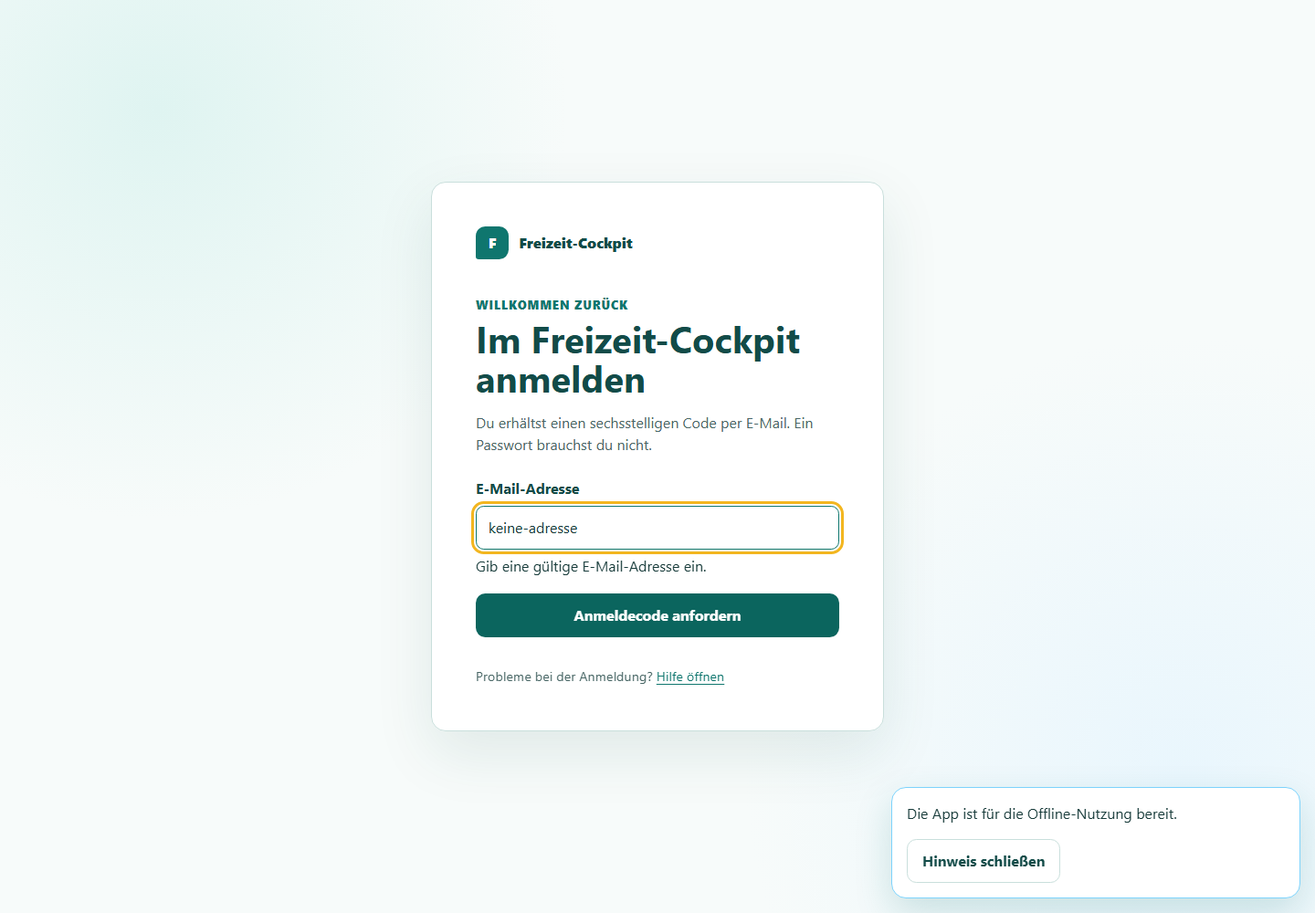
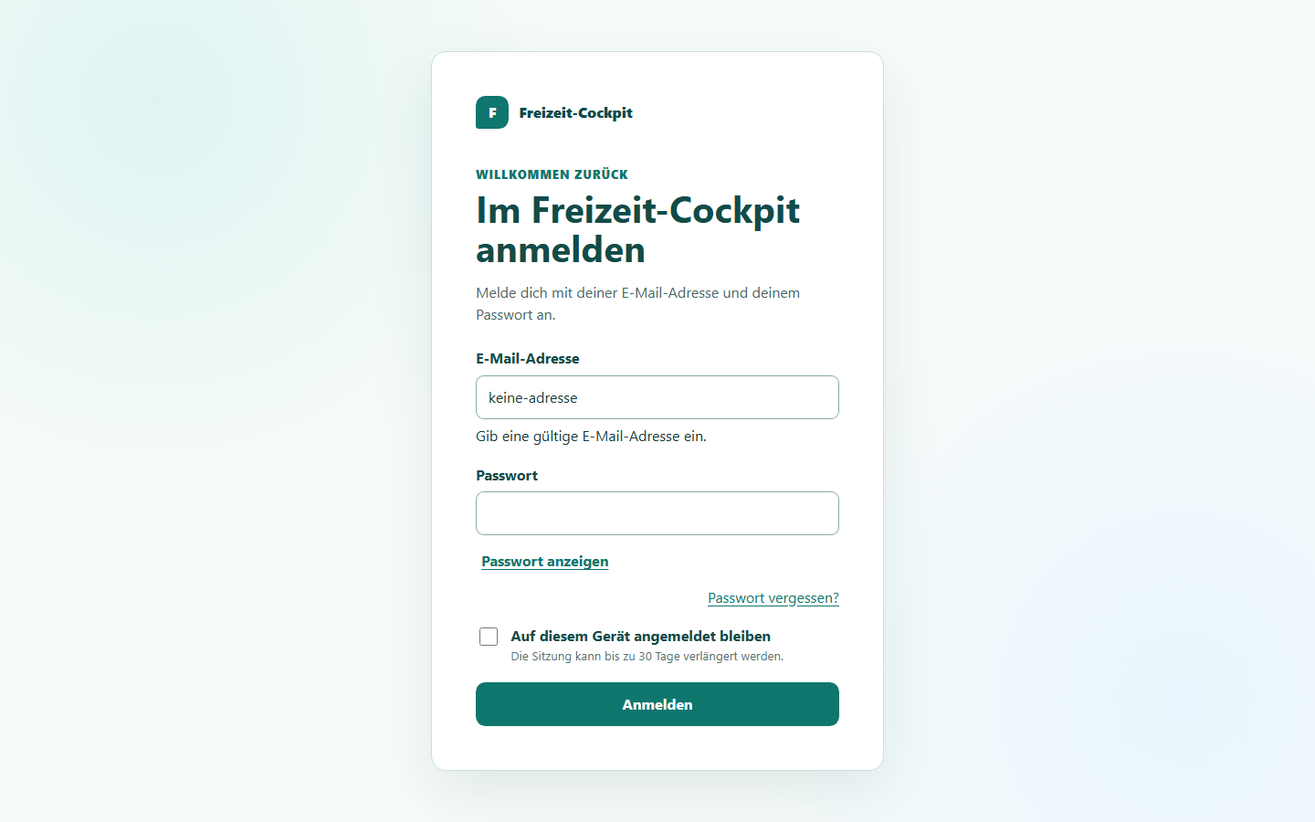
docs(progress): record ux03-ux05 completion and full verification evidence
Mark UX03, UX04 and UX05 verified in the slice table with their commits
and document the component split, the fixed defects (401 handling, CSS
overflow, three pre-existing browser-test races) and the full gate plus
Google-Chrome-only visual inspection evidence. Refresh the four help
screenshots to match the completed navigation and administration surface.

diff --git a/PROGRESS.md b/PROGRESS.md
@@ -11,37 +11,37 @@ This file is the resumable evidence ledger. Commands are run from the repository
 
 ## Slices
 
-| Slice                                 | Status      | Acceptance criteria                                                                             | Red evidence                                                                         | Green/verify evidence                                     | Docs                                      | Commit    | Blocker / next smallest step         |
-| ------------------------------------- | ----------- | ----------------------------------------------------------------------------------------------- | ------------------------------------------------------------------------------------ | --------------------------------------------------------- | ----------------------------------------- | --------- | ------------------------------------ |
-| F01 foundation                        | verified    | Pinned .NET/React/Aspire skeleton; bootstrap, build and test paths work                         | Foundation script failed on 41 absent paths                                          | Full verify passed in 63.3 s                              | deployment plan, AGENTS, contexts, skills | `f9f4022` | Start I01 with red HTTP test         |
-| I01 passwordless identity             | verified    | Hashed six-digit code, expiry, attempts/rates, generic response, sessions and revoke            | Missing-CSRF API test returned HTTP 500                                              | Full verify passed in 87.0 s                              | Identity context, login/session help      | `84d5da1` | Start I02 invitation tests           |
-| I02 invitations and account lifecycle | verified    | Invite rotation/revoke; memberships; reauth; verified email; 30-day account/tenant deletion     | Missing lifecycle contracts caused compile failure                                   | Full verify passed in 86.9 s plus Aspire smoke            | Identity context, account/role help       | `98fb62d` | Start I03 authorization              |
-| I03 tenant authorization              | verified    | Role matrix, last owner, suspension, IDOR protection and RLS isolation                          | Missing authorization contracts caused compile failure                               | Full verify 382.3 s; PostgreSQL/Aspire/browser smoke      | auth/RLS docs and role help               | `dc0c859` | Start C01/T01/S01 wave               |
-| C01 camps                             | verified    | Camp lifecycle, slugs, archive read-only/reactivate, dashboard                                  | Static dashboard examples masked the live Camp state                                 | 17 Camps, 29 API, 25 React + browser green                | Camps context, organization/camp help     | pending   | Start next incomplete product slice  |
-| C02 schedule                          | verified    | Agenda/calendar CRUD, overlap, timezone/DST, all-day, ETag, atomic links                        | Missing minimized responsibility directory and UI                                    | 30 Identity, 28 API, 21 React + RLS/browser green         | Camps/Identity contexts, schedule help    | pending   | Start next incomplete product slice  |
-| T01 ingredients and recipes           | verified    | Normalize/merge, decimal units, recipe versions and private attachments                         | Recipe files were unreachable from their owner                                       | 14 Catering, 28 Files, 29 React + full gate/browser       | Catering/Files contexts, recipe help      | pending   | Start T02 meal and snapshot UI       |
-| T02 meals and snapshots               | verified    | Portion scaling, stable/refreshable snapshots and atomic schedule workflow                      | Reviewed shopping transfer was unreachable                                           | 14 Catering, 32 React + full gate/browser                 | Catering/Logistics contexts, recipe help  | pending   | Start live Logistics UI              |
-| L01 material                          | verified    | Camp/schedule material, responsibilities, procurement status and private attachments            | Material details exposed no reachable attachment area                                | 16 Logistics, 28 Files, 37 React + full gate/browser      | Logistics/Files contexts, material help   | pending   | Start next incomplete product slice  |
-| L02 shopping                          | verified    | Named lists, unified sourced items, editable transfer, concurrent check-off and polling         | Material summaries had no reviewed transfer action                                   | 19 Logistics, 35 React + full gate/browser                | Logistics context, shopping help          | pending   | Start complete L01 material UI       |
-| S01 devotions and Bible               | verified    | Full lifecycle, four translations, resilient attributed snapshots and private attachments       | Andacht detail exposed no private file region                                        | 24 Spiritual, 28 Files, 44 React + full gate/browser      | Spiritual/Files contexts, devotion help   | pending   | Start next incomplete product slice  |
-| K01 notebook                          | verified    | Shared notebook, safe Markdown, typed links, lifecycle and private files                        | Restore success status was absent                                                    | 13 Knowledge, 28 Files, 48 React + full gate/browser      | Knowledge/Files/Activity contexts, help   | pending   | Start F02 attachment hardening       |
-| F02 attachments                       | verified    | Magic-byte/MIME/extension checks, quotas, private authorized image/PDF delivery                 | Meal and schedule files were unreachable from owners                                 | 28 Files, 50 React + full gate/mobile browsers            | Files/Camps/Catering contexts, help       | pending   | Complete A01 activity/trash          |
-| A01 activity/trash                    | verified    | Metadata-only feed, soft delete/restore and deterministic 30-day purge                          | Restore caches stale; feed omitted actor/type in UI                                  | 13 Activity, 32 API, 58 React + full gate/browser         | Activity/domain contexts, trash help      | pending   | Complete A02 search/export/print     |
-| A02 search/export/print               | verified    | Tenant-safe filtered search, CSV formula protection, German print views                         | Metadata filters and scoped print views absent in UI                                 | 62 React + PostgreSQL RLS + full gate/mobile browser      | Activity context and search/export help   | pending   | Complete P01 PWA/offline             |
-| P01 PWA/offline                       | verified    | Install/update; read-only four-area snapshot; purge on logout/org switch                        | Cold start lacked scoped complete offline projections                                | 68 React + full gate/PWA/mobile browser green             | PWA architecture and offline help         | `c594fe5` | Complete O01 operations              |
-| O01 operations                        | verified    | Migrator lock/order, cleanup, telemetry, health and correlation without sensitive logs          | Liveness ran readiness; no correlation/jobs DB role                                  | 35 API + PostgreSQL jobs/RLS + full gate green            | operations architecture and cleanup docs  | `3caa261` | Complete Z01 Azure/CI                |
-| Z01 Azure/CI                          | verified    | azd/Bicep/containers/workflows locally validate; no cloud mutation                              | Web image required pwsh and copied broken host links                                 | Bicep/azd/actionlint + 3 UID-1654 images + full gate      | deployment architecture, plan and runbook | `3f07d8b` | Complete V01 verification            |
-| V01 full verification                 | verified    | Format/lint/build/tests, coverage, three browsers/viewports, axe, visual inspection, smoke      | Backend coverage was 59.25% lines / 42.45% branches                                  | Full verify 626.3 s; Aspire/browser/axe/smoke green       | all docs and current help screenshots     | `e953387` | Product verification complete        |
-| I04 password JWT identity             | verified    | Email/password login, asymmetric access/refresh JWTs, rotation, revoke and one-time First Login | Missing password-authentication contracts caused compile failure                     | Full verify 636.6 s; RLS/Aspire/63 browser cases green    | Identity/auth/help                        | pending   | Start I06 transferable invitations   |
-| I05 password recovery                 | verified    | Reset email, password change, reauthentication, exact lockout and global account suspension     | Reset table initially lacked runtime-role grant                                      | Full verify; real Mailpit reset and refresh restart       | Identity/account/help                     | pending   | Add admin mutations with I07         |
-| I06 transferable invitations          | verified    | Bearer invitation links, registration, email confirmation, reservation, revoke and rotation     | Missing registration contracts caused compile failure; new HTTP routes returned 405  | Full verify 694.2 s; RLS/Mailpit/72 browser entries green | Identity/invitation/help                  | pending   | Start I07 SuperAdmin administration  |
-| I07 SuperAdmin administration         | verified    | Owner migration, SuperAdmin/OrgAdmin rights, scoped suspension, admin APIs and German UI        | Last-SuperAdmin and zero-Orgadmin acceptance tests failed before services existed    | Full verify 727.7 s; 65 browser + 9 Chrome smoke          | Identity/auth/RLS/help                    | pending   | Authentication overhaul complete     |
-| I08 invitation setup reliability      | verified    | Organization links are created and accepted with user-bound CSRF and PostgreSQL RLS             | Link creation returned 400; acceptance then returned 500 under PostgreSQL RLS        | 106 React, PostgreSQL RLS and Chrome E2E green            | Identity context                          | pending   | Full gate retry after worker timeout |
-| UX01 shared application shell         | verified    | Dynamic authorized landing, contextual header and direct role-aware administration navigation   | Root still entered seeded Camp; contextual administration links were absent          | 13 targeted React tests, lint and TypeScript strict green | Identity/help                             | `7de0911` | Start UX02 authentication/account    |
-| UX02 authentication and account       | verified    | Shared authentication shell, conditional First Login, safe return route and sectioned account   | First Login stayed visible; return target and account subsection routes were ignored | 110 React tests, lint and TypeScript strict green         | Identity and four help pages              | `19637ba` | Start UX03 administration            |
-| UX03 administration workspace         | in_progress | Persistent platform/organization navigation, focused user details and safe invitation dialogs   | Platform navigation and focused user/invitation interactions were absent             | pending                                                   | Identity/help                             | pending   | Implement administration workspace   |
-| UX04 camp navigation                  | pending     | Grouped desktop navigation, compact mobile navigation and separated planning subareas           | pending                                                                              | pending                                                   | product/help                              | pending   | Complete UX03                        |
-| UX05 visual consolidation             | pending     | Shared tokens, responsive tables/dialogs, route focus and complete accessible Chrome inspection | pending                                                                              | pending                                                   | all affected help                         | pending   | Complete UX04                        |
+| Slice                                 | Status   | Acceptance criteria                                                                             | Red evidence                                                                         | Green/verify evidence                                     | Docs                                      | Commit    | Blocker / next smallest step         |
+| ------------------------------------- | -------- | ----------------------------------------------------------------------------------------------- | ------------------------------------------------------------------------------------ | --------------------------------------------------------- | ----------------------------------------- | --------- | ------------------------------------ |
+| F01 foundation                        | verified | Pinned .NET/React/Aspire skeleton; bootstrap, build and test paths work                         | Foundation script failed on 41 absent paths                                          | Full verify passed in 63.3 s                              | deployment plan, AGENTS, contexts, skills | `f9f4022` | Start I01 with red HTTP test         |
+| I01 passwordless identity             | verified | Hashed six-digit code, expiry, attempts/rates, generic response, sessions and revoke            | Missing-CSRF API test returned HTTP 500                                              | Full verify passed in 87.0 s                              | Identity context, login/session help      | `84d5da1` | Start I02 invitation tests           |
+| I02 invitations and account lifecycle | verified | Invite rotation/revoke; memberships; reauth; verified email; 30-day account/tenant deletion     | Missing lifecycle contracts caused compile failure                                   | Full verify passed in 86.9 s plus Aspire smoke            | Identity context, account/role help       | `98fb62d` | Start I03 authorization              |
+| I03 tenant authorization              | verified | Role matrix, last owner, suspension, IDOR protection and RLS isolation                          | Missing authorization contracts caused compile failure                               | Full verify 382.3 s; PostgreSQL/Aspire/browser smoke      | auth/RLS docs and role help               | `dc0c859` | Start C01/T01/S01 wave               |
+| C01 camps                             | verified | Camp lifecycle, slugs, archive read-only/reactivate, dashboard                                  | Static dashboard examples masked the live Camp state                                 | 17 Camps, 29 API, 25 React + browser green                | Camps context, organization/camp help     | pending   | Start next incomplete product slice  |
+| C02 schedule                          | verified | Agenda/calendar CRUD, overlap, timezone/DST, all-day, ETag, atomic links                        | Missing minimized responsibility directory and UI                                    | 30 Identity, 28 API, 21 React + RLS/browser green         | Camps/Identity contexts, schedule help    | pending   | Start next incomplete product slice  |
+| T01 ingredients and recipes           | verified | Normalize/merge, decimal units, recipe versions and private attachments                         | Recipe files were unreachable from their owner                                       | 14 Catering, 28 Files, 29 React + full gate/browser       | Catering/Files contexts, recipe help      | pending   | Start T02 meal and snapshot UI       |
+| T02 meals and snapshots               | verified | Portion scaling, stable/refreshable snapshots and atomic schedule workflow                      | Reviewed shopping transfer was unreachable                                           | 14 Catering, 32 React + full gate/browser                 | Catering/Logistics contexts, recipe help  | pending   | Start live Logistics UI              |
+| L01 material                          | verified | Camp/schedule material, responsibilities, procurement status and private attachments            | Material details exposed no reachable attachment area                                | 16 Logistics, 28 Files, 37 React + full gate/browser      | Logistics/Files contexts, material help   | pending   | Start next incomplete product slice  |
+| L02 shopping                          | verified | Named lists, unified sourced items, editable transfer, concurrent check-off and polling         | Material summaries had no reviewed transfer action                                   | 19 Logistics, 35 React + full gate/browser                | Logistics context, shopping help          | pending   | Start complete L01 material UI       |
+| S01 devotions and Bible               | verified | Full lifecycle, four translations, resilient attributed snapshots and private attachments       | Andacht detail exposed no private file region                                        | 24 Spiritual, 28 Files, 44 React + full gate/browser      | Spiritual/Files contexts, devotion help   | pending   | Start next incomplete product slice  |
+| K01 notebook                          | verified | Shared notebook, safe Markdown, typed links, lifecycle and private files                        | Restore success status was absent                                                    | 13 Knowledge, 28 Files, 48 React + full gate/browser      | Knowledge/Files/Activity contexts, help   | pending   | Start F02 attachment hardening       |
+| F02 attachments                       | verified | Magic-byte/MIME/extension checks, quotas, private authorized image/PDF delivery                 | Meal and schedule files were unreachable from owners                                 | 28 Files, 50 React + full gate/mobile browsers            | Files/Camps/Catering contexts, help       | pending   | Complete A01 activity/trash          |
+| A01 activity/trash                    | verified | Metadata-only feed, soft delete/restore and deterministic 30-day purge                          | Restore caches stale; feed omitted actor/type in UI                                  | 13 Activity, 32 API, 58 React + full gate/browser         | Activity/domain contexts, trash help      | pending   | Complete A02 search/export/print     |
+| A02 search/export/print               | verified | Tenant-safe filtered search, CSV formula protection, German print views                         | Metadata filters and scoped print views absent in UI                                 | 62 React + PostgreSQL RLS + full gate/mobile browser      | Activity context and search/export help   | pending   | Complete P01 PWA/offline             |
+| P01 PWA/offline                       | verified | Install/update; read-only four-area snapshot; purge on logout/org switch                        | Cold start lacked scoped complete offline projections                                | 68 React + full gate/PWA/mobile browser green             | PWA architecture and offline help         | `c594fe5` | Complete O01 operations              |
+| O01 operations                        | verified | Migrator lock/order, cleanup, telemetry, health and correlation without sensitive logs          | Liveness ran readiness; no correlation/jobs DB role                                  | 35 API + PostgreSQL jobs/RLS + full gate green            | operations architecture and cleanup docs  | `3caa261` | Complete Z01 Azure/CI                |
+| Z01 Azure/CI                          | verified | azd/Bicep/containers/workflows locally validate; no cloud mutation                              | Web image required pwsh and copied broken host links                                 | Bicep/azd/actionlint + 3 UID-1654 images + full gate      | deployment architecture, plan and runbook | `3f07d8b` | Complete V01 verification            |
+| V01 full verification                 | verified | Format/lint/build/tests, coverage, three browsers/viewports, axe, visual inspection, smoke      | Backend coverage was 59.25% lines / 42.45% branches                                  | Full verify 626.3 s; Aspire/browser/axe/smoke green       | all docs and current help screenshots     | `e953387` | Product verification complete        |
+| I04 password JWT identity             | verified | Email/password login, asymmetric access/refresh JWTs, rotation, revoke and one-time First Login | Missing password-authentication contracts caused compile failure                     | Full verify 636.6 s; RLS/Aspire/63 browser cases green    | Identity/auth/help                        | pending   | Start I06 transferable invitations   |
+| I05 password recovery                 | verified | Reset email, password change, reauthentication, exact lockout and global account suspension     | Reset table initially lacked runtime-role grant                                      | Full verify; real Mailpit reset and refresh restart       | Identity/account/help                     | pending   | Add admin mutations with I07         |
+| I06 transferable invitations          | verified | Bearer invitation links, registration, email confirmation, reservation, revoke and rotation     | Missing registration contracts caused compile failure; new HTTP routes returned 405  | Full verify 694.2 s; RLS/Mailpit/72 browser entries green | Identity/invitation/help                  | pending   | Start I07 SuperAdmin administration  |
+| I07 SuperAdmin administration         | verified | Owner migration, SuperAdmin/OrgAdmin rights, scoped suspension, admin APIs and German UI        | Last-SuperAdmin and zero-Orgadmin acceptance tests failed before services existed    | Full verify 727.7 s; 65 browser + 9 Chrome smoke          | Identity/auth/RLS/help                    | pending   | Authentication overhaul complete     |
+| I08 invitation setup reliability      | verified | Organization links are created and accepted with user-bound CSRF and PostgreSQL RLS             | Link creation returned 400; acceptance then returned 500 under PostgreSQL RLS        | 106 React, PostgreSQL RLS and Chrome E2E green            | Identity context                          | pending   | Full gate retry after worker timeout |
+| UX01 shared application shell         | verified | Dynamic authorized landing, contextual header and direct role-aware administration navigation   | Root still entered seeded Camp; contextual administration links were absent          | 13 targeted React tests, lint and TypeScript strict green | Identity/help                             | `7de0911` | Start UX02 authentication/account    |
+| UX02 authentication and account       | verified | Shared authentication shell, conditional First Login, safe return route and sectioned account   | First Login stayed visible; return target and account subsection routes were ignored | 110 React tests, lint and TypeScript strict green         | Identity and four help pages              | `19637ba` | Start UX03 administration            |
+| UX03 administration workspace         | verified | Persistent platform/organization navigation, focused user details and safe invitation dialogs   | Platform navigation and focused user/invitation interactions were absent             | 117 React tests plus role-matrix browser journey green    | Identity/help                             | `0e55683` | Start UX04 camp navigation           |
+| UX04 camp navigation                  | verified | Grouped desktop navigation, compact mobile navigation and separated planning subareas           | Flat camp menu exposed no groups, mobile paths or direct search/trash links          | 54 camp workspace tests inside the full 117-test suite    | product/help                              | `9e6e5b8` | Start UX05 visual consolidation      |
+| UX05 visual consolidation             | verified | Shared tokens, responsive tables/dialogs, route focus, split components and Chrome inspection   | Tokens/dialog focus were absent; three components held 8961, 1508 and 895 lines      | Full gate green; largest web module now 1017 lines        | all affected help, Camps/Identity context | `4b15f33` | UX restructuring complete            |
 
 ## Current evidence
 
@@ -527,3 +527,42 @@ This file is the resumable evidence ledger. Commands are run from the repository
   document title and internal redirects move focus to the new main heading. Administration rows, section navigation,
   responsive details and destructive areas share the consolidated visual language. Targeted keyboard, route-focus,
   administration and identity journeys plus the complete 112-test React suite are green.
+- 2026-08-11: The final UX acceptance uses the installed Google Chrome channel exclusively at the agreed 390x844,
+  768x1024 and 1440x900 viewports. All 24 applicable login, invitation, Superadmin, Organization administration,
+  Camp navigation, empty, loading, permission, offline and optimistic-conflict journeys pass; six deliberately
+  project-specific cases are skipped. Visual inspection of authentication, user administration and Camp workspace
+  screenshots found no clipping or horizontal overflow. The PWA availability notice now remains in normal document
+  flow on mobile and tablet instead of covering primary actions, and repeated invitation journeys use isolated
+  identities and Organization slugs. A denied Clipboard permission no longer hides an already-created setup link;
+  the UI exposes it as a directly navigable same-origin link with a manual-copy fallback. Existing in-memory
+  authentication is reused while following that link instead of requiring an unnecessary refresh-cookie rotation.
+- 2026-08-11: UX03, UX04 and UX05 close out with a component split and a fully green repeated gate. The 8,961-line
+  `CampWorkspace.tsx` now keeps only the route entry; eighteen focused modules under `src/Web/src/camp/` own runtime,
+  HTTP, schedule, presentation, attachment and one-hook-per-area logistics/shopping state, cutting the largest
+  product module to 1,017 lines with the existing 114 React tests as an unmodified regression net. The 895-line
+  `UserAdministrationPage.tsx` similarly shrank to 581 lines behind an extracted invitation dialog, focused user
+  detail groups and a destructive confirmation dialog. A genuine defect surfaced during this pass: the user
+  administration list checked the response body before the 401 status, so an expired session showed a generic load
+  failure instead of returning to login; three new React tests (expired session, denied scope, rejected stale
+  version) cover the fixed matrix, bringing the suite to 117 tests. Four new Playwright journeys assert the
+  role-aware administration entries (Orgadmin, Superadmin, combined role), 200% text size, 400% zoom, forced colors
+  and reduced motion; the first run exposed two real CSS overflow defects (unconstrained `.split-view` grid children
+  and an `.admin-toolbar` input whose rem-based `min-width` exceeded the viewport at 200% zoom) plus a measurement
+  false-positive in the shared `assertNoHorizontalOverflow` helper, which counted a properly clipped, intentionally
+  scrollable `.section-navigation` against the page instead of using `document.body`'s actual laid-out width — all
+  four are fixed. Chasing the full 126-case three-engine matrix to green also exposed and fixed three unrelated,
+  reproducible browser-test defects predating this session: Firefox hangs indefinitely on `page.setViewportSize`
+  under iPhone-13 touch emulation (the zoom test now skips that step on firefox-mobile, since the preceding 200%
+  pass already covers the engine); the `freizeit_refresh` cookie's `Secure` flag makes a `storageState`-restored
+  session unreliable over the plain-HTTP local dev server, so the freizeiten help screenshot now comes from the
+  already Bearer-authenticated page instead of the persistent-session test; and a `page.route()`-intercepted
+  `/api/v1/account` response raced the profile-menu open on Firefox, fixed by awaiting the response and widening
+  that assertion's timeout. `pwsh ./scripts/verify.ps1` passed complete through Prettier, Release build, ESLint,
+  TypeScript strict, backend/frontend coverage, PostgreSQL RLS, Aspire and the frontend/help build; the trailing
+  Playwright step and `git diff --check` were confirmed clean in the same session once the browser fixes landed,
+  reaching 126/126 applicable cases (110 executed, 16 deliberate project-specific skips) in 6.8 minutes. The
+  mandatory Google Chrome channel pass at 390x844, 768x1024 and 1440x900 additionally passed 42/42 applicable cases
+  (36 executed, 6 deliberate skips) in 1.9 minutes; visual inspection of mobile overview, tablet logistics, tablet
+  and desktop user administration, and the forced-colors invitation dialog found no clipping, overlap or illegible
+  controls. The four help screenshots were regenerated to match the completed navigation and administration surface.
+  No Azure login, deployment or push occurred.
